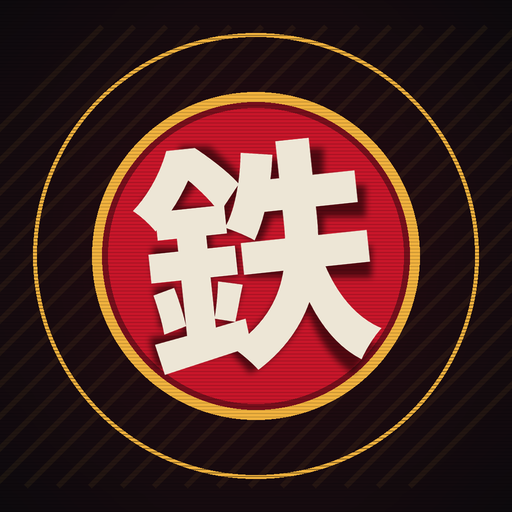
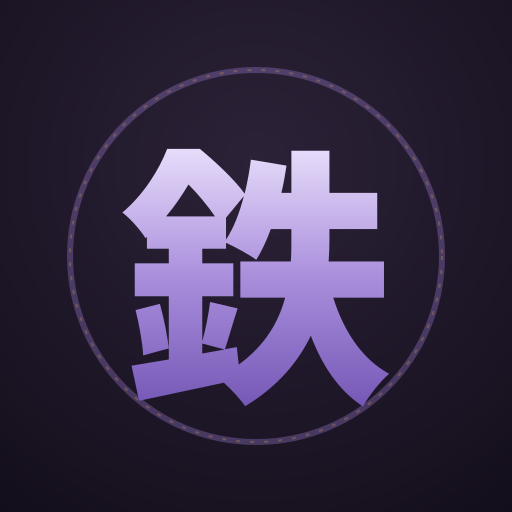
Add files via upload
Colour palette changed

diff --git a/index.html b/index.html
@@ -15,9 +15,9 @@
   @font-face{ font-family:"IronDisp"; src:url("./display.woff") format("woff"); font-weight:400 900; font-style:normal; font-display:swap; }
   :root{
     --ink:#0C0A0D; --panel:#15111A; --panel2:#1E1722; --line:#3C2E36;
-    --teal:#E51D34; --tealdim:#F1B23E; --text:#EDE6D6; --muted:#9C8F86;
+    --teal:#9A7BD0; --tealdim:#F1B23E; --text:#EDE6D6; --muted:#9C8F86;
     --amber:#F1B23E; --red:#FF5563; --green:#5BD46A;
-    --gold:#F1B23E; --crimson:#E51D34; --crimson-deep:#8E1020;
+    --gold:#F1B23E; --crimson:#7558B6; --crimson-deep:#4A3577;
     --mono: ui-monospace, SFMono-Regular, Menlo, Consolas, monospace;
     --disp: "IronDisp","Arial Black",Roboto,sans-serif;
   }
@@ -25,7 +25,7 @@
   html,body{ margin:0; padding:0; background:#000; color:var(--text);
     font-family:-apple-system,BlinkMacSystemFont,"Segoe UI",Roboto,Helvetica,Arial,sans-serif; }
   body{ max-width:480px; margin:0 auto; min-height:100vh;
-    background:radial-gradient(120% 80% at 50% -8%, #1c0d12 0%, var(--ink) 55%), var(--ink); }
+    background:radial-gradient(120% 80% at 50% -8%, #1C1424 0%, var(--ink) 55%), var(--ink); }
   body::after{ content:""; position:fixed; inset:0; pointer-events:none; z-index:60;
     background:repeating-linear-gradient(rgba(0,0,0,0) 0 2px, rgba(0,0,0,.14) 2px 3px); mix-blend-mode:multiply; }
   body::before{ content:""; position:fixed; inset:0; pointer-events:none; z-index:59;
@@ -39,8 +39,8 @@
   .brand{ display:flex; align-items:center; gap:11px; }
   .seal{ flex:0 0 auto; width:44px; height:44px; border-radius:50%; display:grid; place-items:center;
     color:var(--text); font-size:23px; font-weight:700; transform:rotate(-6deg);
-    background:radial-gradient(circle at 35% 30%, #c0162a, #7c0d1c); border:2px solid var(--gold);
-    box-shadow:0 0 13px rgba(229,29,52,.5), inset 0 0 8px rgba(0,0,0,.5); text-shadow:0 1px 2px rgba(0,0,0,.6); }
+    background:radial-gradient(circle at 35% 30%, #8866C9, #3B2A5E); border:2px solid var(--gold);
+    box-shadow:0 0 13px rgba(154,123,208,.5), inset 0 0 8px rgba(0,0,0,.5); text-shadow:0 1px 2px rgba(0,0,0,.6); }
   .logo{ font-family:var(--disp); font-weight:900; font-size:26px; line-height:.9; transform:skewX(-8deg);
     letter-spacing:-.01em; text-transform:uppercase; color:var(--text);
     text-shadow:2px 2px 0 var(--crimson-deep), 4px 4px 0 rgba(0,0,0,.4); }
@@ -84,9 +84,9 @@
     box-shadow:0 0 12px rgba(241,178,62,.45); }
 
   .btn{ position:relative; width:100%; padding:14px; font-family:var(--disp); font-weight:900; font-size:16px;
-    text-transform:uppercase; letter-spacing:.04em; color:#190a0a; overflow:hidden;
-    background:linear-gradient(180deg,#ff3144,var(--crimson) 40%,#a81223); border:2px solid var(--gold);
-    box-shadow:0 0 16px rgba(229,29,52,.45), inset 0 2px 0 rgba(255,255,255,.22);
+    text-transform:uppercase; letter-spacing:.04em; color:#160F1F; overflow:hidden;
+    background:linear-gradient(180deg,#C9AEEF,var(--crimson) 40%,#3B2A5E); border:2px solid var(--gold);
+    box-shadow:0 0 16px rgba(154,123,208,.45), inset 0 2px 0 rgba(255,255,255,.22);
     display:flex; align-items:center; justify-content:center; gap:8px;
     clip-path:polygon(0 0, calc(100% - 12px) 0, 100% 12px, 100% 100%, 12px 100%, 0 calc(100% - 12px)); }
   .btn::after{ content:""; position:absolute; inset:0; pointer-events:none;
@@ -125,7 +125,7 @@
   .bars{ display:flex; align-items:flex-end; gap:10px; height:140px; padding-top:8px; }
   .barcol{ flex:1; display:flex; flex-direction:column; align-items:center; gap:6px; height:100%; justify-content:flex-end; }
   .bar{ width:100%; max-width:38px; background:linear-gradient(180deg, var(--gold), var(--crimson)); min-height:2px;
-    box-shadow:0 0 8px rgba(229,29,52,.4); }
+    box-shadow:0 0 8px rgba(154,123,208,.4); }
   .barlabel{ font-size:10px; color:var(--muted); text-transform:uppercase; letter-spacing:.05em; font-family:var(--mono); }
   .barval{ font-family:var(--mono); font-size:11px; color:var(--gold); font-weight:700; }
 
@@ -560,7 +560,7 @@ function makeDefaultPlan(){ return []; }
 
 /* ============================== STORAGE ============================== */
 const K = { w:"il.workoutLog", f:"il.foodLog", b:"il.weightLog", p:"il.trainingPlan", cf:"il.customFoods", ce:"il.customExercises", pr:"il.profile", mp:"il.mealPlan", mpl:"il.mealPlans", meta:"il.meta" };
-const APP_VERSION = "v27";
+const APP_VERSION = "v28";
 function load(key, fb){ try{ const v=localStorage.getItem(key); return v ? JSON.parse(v) : fb; }catch(e){ return fb; } }
 function save(key, val){ try{ localStorage.setItem(key, JSON.stringify(val)); }catch(e){ console.error("save failed", e); } }
 

diff --git a/sw.js b/sw.js
@@ -1,5 +1,5 @@
 /* IronTrunks service worker — offline app shell cache */
-const CACHE = "irontrunks-v25";
+const CACHE = "irontrunks-v28";
 const ASSETS = [
   "./",
   "./index.html",